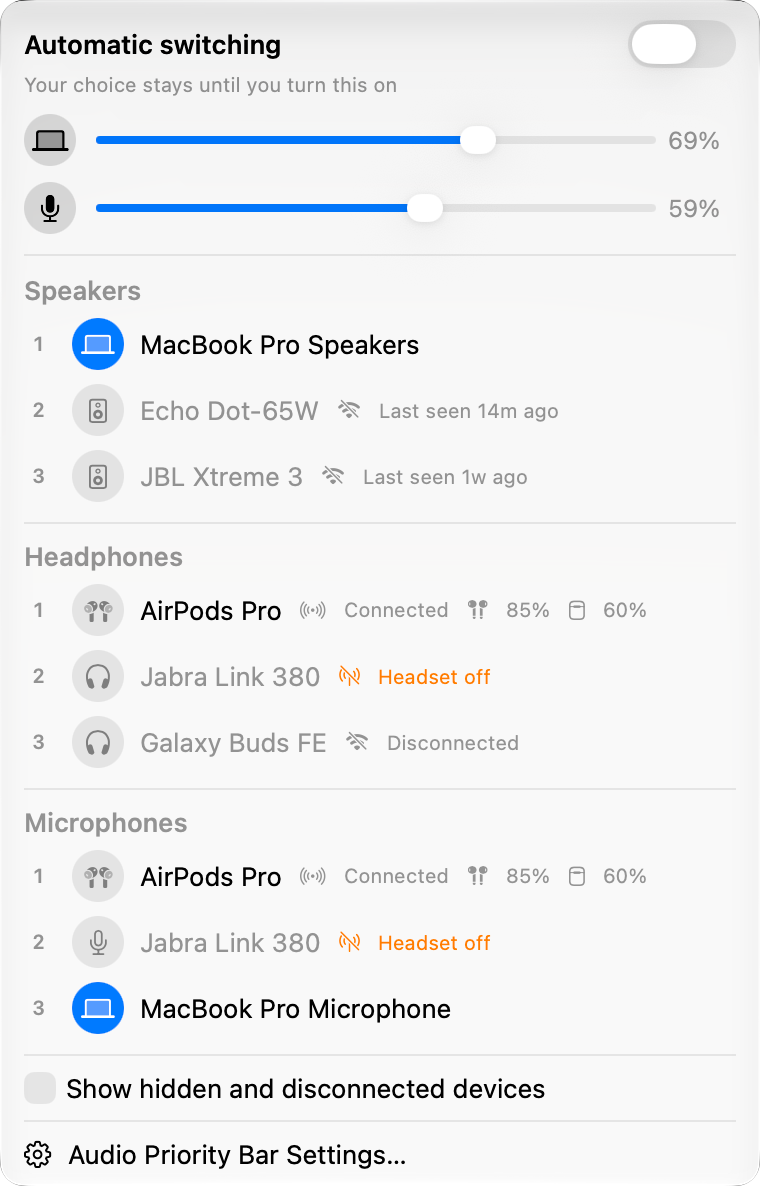
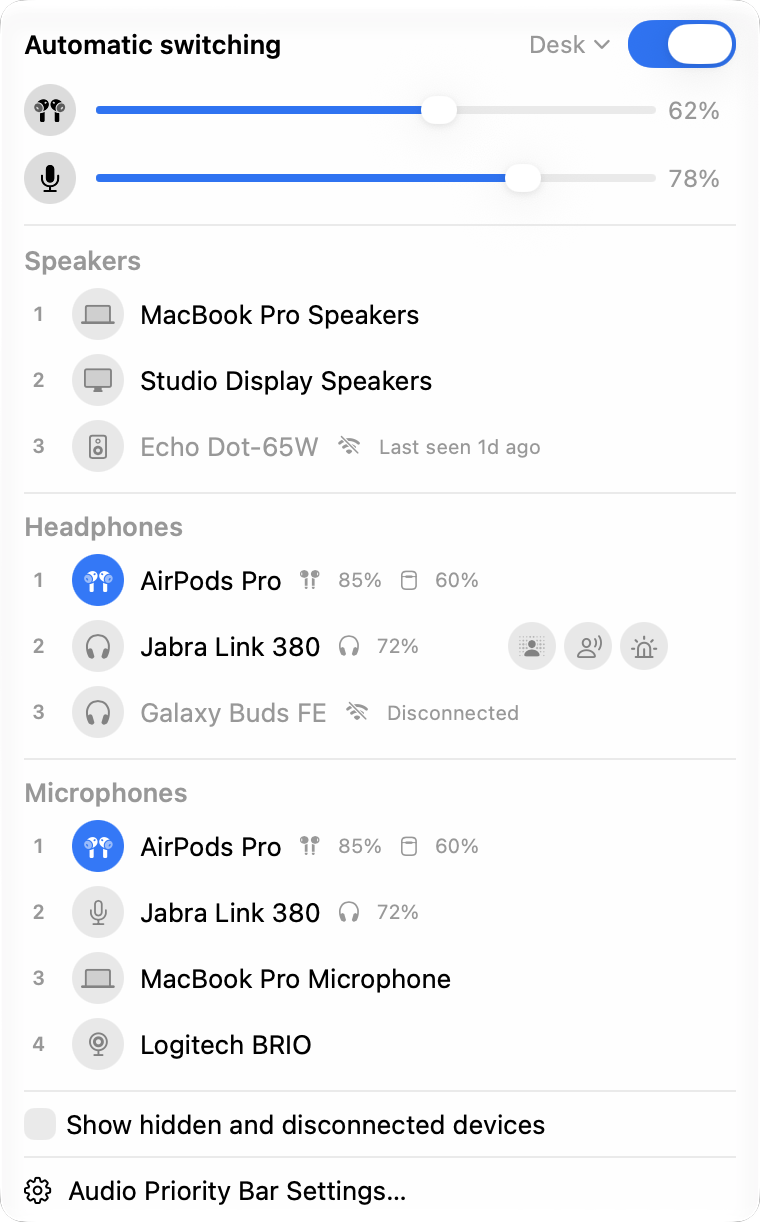
feat: prepare Audio Priority Bar 2.12.0 (#71)
Bumps the version to 2.12.0 and adds its release notes. The README's tour,
panel screenshots and their descriptions now show 2.12: profiles, the Jabra
headset row, picks that keep automatic switching on and the red reminder.

diff --git a/.github/release-notes/v2.12.0.md b/.github/release-notes/v2.12.0.md
@@ -1,0 +1,50 @@
+Audio Priority Bar 2.12.0 adds profiles, keyboard control of the whole panel, a microphone order of its own for headphones, and controls for a Jabra headset's noise mode, sidetone and busylight. Picking a device now keeps automatic switching on. Coming from 2.11.0, the update installs in place, and your existing priorities and overrides are kept.
+
+## Picking a device
+
+- Picking a device in the panel, from Shortcuts, or with **Output only**, **Mic only** and **Use both** now keeps automatic switching on, as a pick in Control Center already did. Before, a pick turned automatic switching off until you turned it back on ([#66](https://github.com/camguillory/Audio-Priority-Bar/pull/66), [#68](https://github.com/camguillory/Audio-Priority-Bar/pull/68)).
+- Your pick stays until it disconnects or a device your list would pick connects, so a headset you plug in during a call still takes over. A USB microphone or a virtual device appearing no longer ends it ([#69](https://github.com/camguillory/Audio-Priority-Bar/pull/69)).
+- The panel says when your pick is holding. To keep a pick for good, turn automatic switching off.
+
+## Profiles
+
+- Profiles keep their own Speakers, Headphones and Microphones orders and whether automatic switching is on. Add them in **Settings › Profiles**, then switch from the menu in the panel heading, from Settings, from the **Apply Profile** shortcut, or with a Focus filter, which goes back to the previous profile when the Focus ends ([#63](https://github.com/camguillory/Audio-Priority-Bar/pull/63)).
+
+## Microphones
+
+- **Microphones follow the output**, in **Settings › Devices** and off by default, gives headphones their own microphone order, so moving from headphones to speakers can also move to your desk microphone ([#62](https://github.com/camguillory/Audio-Priority-Bar/pull/62)).
+
+## Jabra headsets
+
+- A Jabra headset behind a Link dongle gets its noise control (Off, Noise Cancellation or HearThrough), sidetone and busylight right on its row. A call keeps the busylight on until it ends, and a call started with the headset's call button ends from the row ([#70](https://github.com/camguillory/Audio-Priority-Bar/pull/70)).
+- **Light a Jabra headset's busylight while an app uses its microphone**, in Settings and off by default, covers calls in apps that don't signal one, such as Meet or Teams in a browser.
+- Tested on an Evolve2 85 behind a Link 380. Other Jabra headsets behind a Link dongle should work from Jabra's own setting definitions, and an issue naming the model you tried helps confirm it.
+
+## Menu bar
+
+- **Red while automatic switching is off**, in **Settings › Icon** and off by default, turns the icon red as a reminder to turn it back on. Thanks to Dave Smith for this one ([#65](https://github.com/camguillory/Audio-Priority-Bar/pull/65)).
+
+## Keyboard
+
+- The whole panel now works from the keyboard: Up and Down move through every item, Return or Space acts on it, and Left and Right change levels and step through profiles ([#64](https://github.com/camguillory/Audio-Priority-Bar/pull/64)).
+- **Forget Device** asks for confirmation again, and text fields have Copy, Paste and Undo.
+
+## Updates
+
+- Updating from 2.9.0 or later downloads only what changed. Older versions download the full archive.
+
+## Install
+
+```bash
+brew install --cask camguillory/tap/audio-priority-bar
+```
+
+Alternatively, download `AudioPriorityBar.zip` and `AudioPriorityBar.zip.sha256` below into the same folder, verify the archive, and move the app to `/Applications`:
+
+```bash
+shasum -a 256 -c AudioPriorityBar.zip.sha256
+```
+
+The release is universal for Apple silicon and Intel. It is signed with the project's own certificate, not an Apple Developer ID, and not notarized. If macOS blocks the first launch, open **System Settings > Privacy & Security** and click **Open Anyway**.
+
+Connecting a Bluetooth device from the panel asks for Bluetooth permission, and Accessibility is optional, for the hover preview. Jabra Link monitoring may request Input Monitoring permission. Link 380 is hardware-verified. Link 390 is expected to work through the same capability check but remains unverified on hardware, and monitoring fails open when the link state cannot be read.

diff --git a/README.md b/README.md
@@ -20,7 +20,7 @@
 </p>
 
 <p align="center">
-  <img src="demo.gif" width="800" alt="A tour of Audio Priority Bar in the menu bar. A Jabra headset and then AirPods connect and the Mac switches to each with a notice. The panel shows the AirPods buds and case battery and the Jabra battery, dragging the Jabra above the AirPods switches the sound at once, the app switches back when macOS takes over, and unplugging the Jabra hands the sound to the AirPods. Option-Shift-M mutes the microphone and turns the icon red, a reminder appears when an app records while muted, a URL unmutes it, and hovering the icon shows the current output and microphone">
+  <img src="demo.gif" width="800" alt="A tour of Audio Priority Bar in the menu bar. A Jabra headset and then AirPods connect and the Mac switches to each with a notice. The panel shows the AirPods buds and case battery and the Jabra battery, the Jabra's busylight and sidetone turn on from its row, dragging the Jabra above the AirPods switches the sound at once, and the app switches back when macOS takes over. Picking Studio Display Speakers keeps automatic switching on, the Meeting profile puts the Jabra first, and turning automatic switching off turns the icon red. Option-Shift-M mutes the microphone, a reminder appears when an app records while muted, and a URL unmutes it">
 </p>
 
 ## Why
@@ -101,7 +101,7 @@ switching off to keep it.
 <p align="center">
   <picture>
     <source media="(prefers-color-scheme: dark)" srcset="screenshot-dark.png">
-    <img src="screenshot-light.png" width="380" alt="Audio Priority Bar panel showing output and microphone levels and the Speakers, Headphones and Microphones priority lists, with AirPods connected and showing their battery, and paired Bluetooth devices dimmed while they are off">
+    <img src="screenshot-light.png" width="380" alt="Audio Priority Bar panel showing automatic switching on with the Desk profile, output and microphone levels, and the Speakers, Headphones and Microphones priority lists, with AirPods and a Jabra headset showing their battery, the Jabra's noise control, sidetone and busylight buttons, and paired Bluetooth devices dimmed while they are off">
   </picture>
 </p>
 
